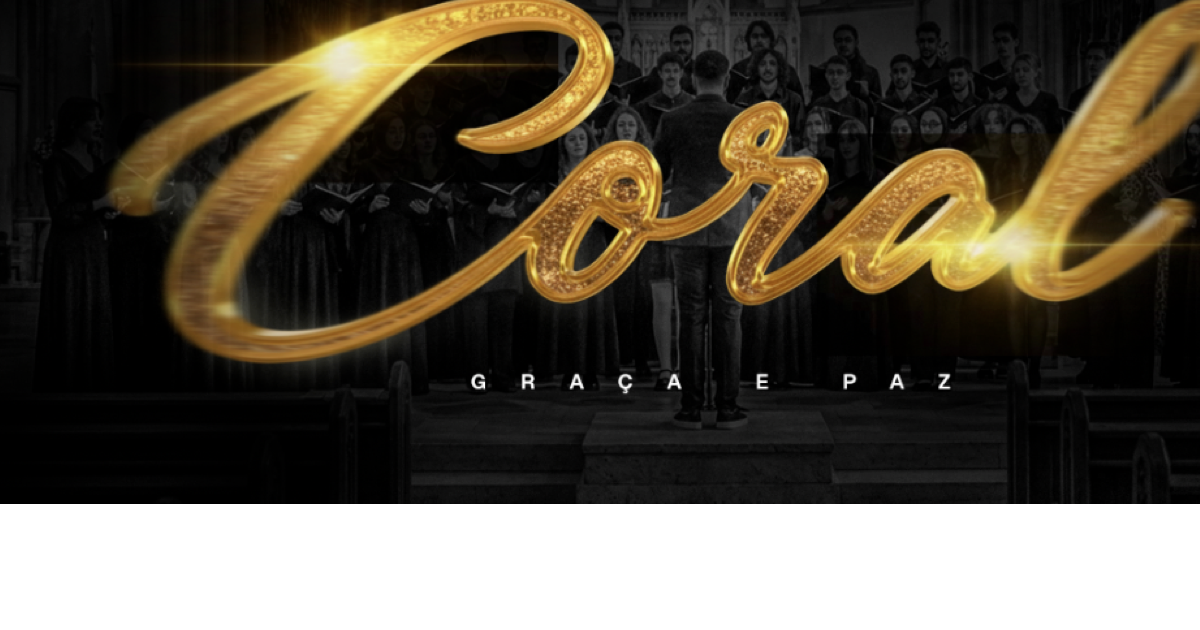
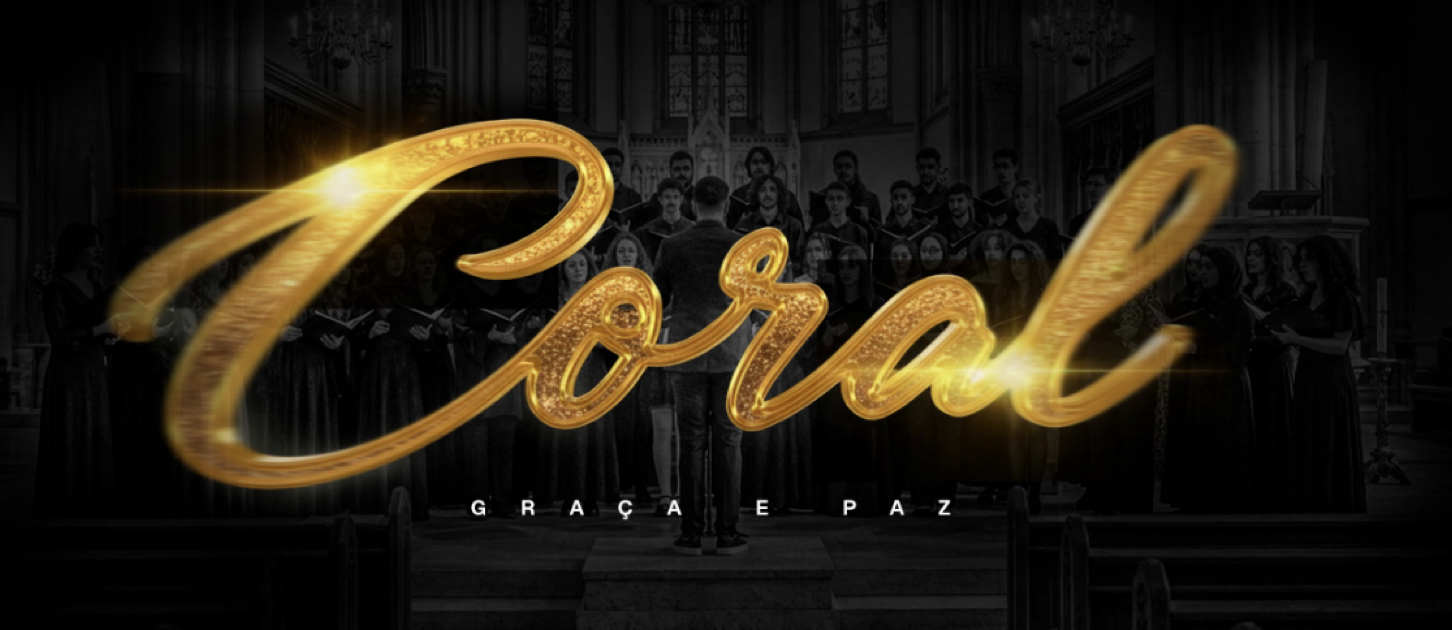
chore: update og meta

diff --git a/index.html b/index.html
@@ -7,19 +7,25 @@
   <meta name="theme-color" media="(prefers-color-scheme: dark)" content="#07070a" />
   <meta name="theme-color" media="(prefers-color-scheme: light)" content="#07070a" />
   <meta name="color-scheme" content="dark" />
+  <meta name="mobile-web-app-capable" content="yes" />
   <meta name="apple-mobile-web-app-capable" content="yes" />
   <meta name="apple-mobile-web-app-status-bar-style" content="black-translucent" />
   <title>Inscrição • Coral da Igreja</title>
-  <meta property="og:title" content="Coral da Igreja" />
+  <meta property="og:title" content="Coral Graça e Paz" />
   <meta property="og:description" content="Inscrição do Coral Graça e Paz" />
-  <meta property="og:image" content="https://coral-igp.vercel.app/og.png?v=1" />
-  <meta property="og:image:secure_url" content="https://coral-igp.vercel.app/og.png?v=1" />
+  <meta property="og:image" content="https://coral-igp.vercel.app/og.png?v=2" />
+  <meta property="og:image:secure_url" content="https://coral-igp.vercel.app/og.png?v=2" />
   <meta property="og:image:type" content="image/png" />
   <meta property="og:image:width" content="1200" />
   <meta property="og:image:height" content="630" />
+  <meta property="og:image:alt" content="Coral Graça e Paz" />
   <meta property="og:url" content="https://coral-igp.vercel.app" />
   <meta property="og:type" content="website" />
   <meta property="og:locale" content="pt_BR" />
+  <meta name="twitter:card" content="summary_large_image" />
+  <meta name="twitter:title" content="Coral Graça e Paz" />
+  <meta name="twitter:description" content="Inscrição do Coral Graça e Paz" />
+  <meta name="twitter:image" content="https://coral-igp.vercel.app/og.png?v=2" />
   <link rel="preconnect" href="https://fonts.googleapis.com">
   <link rel="preconnect" href="https://fonts.gstatic.com" crossorigin>
   <link href="https://fonts.googleapis.com/css2?family=Space+Grotesk:wght@400;500;600;700&family=Sora:wght@400;500;600;700&display=swap" rel="stylesheet">
